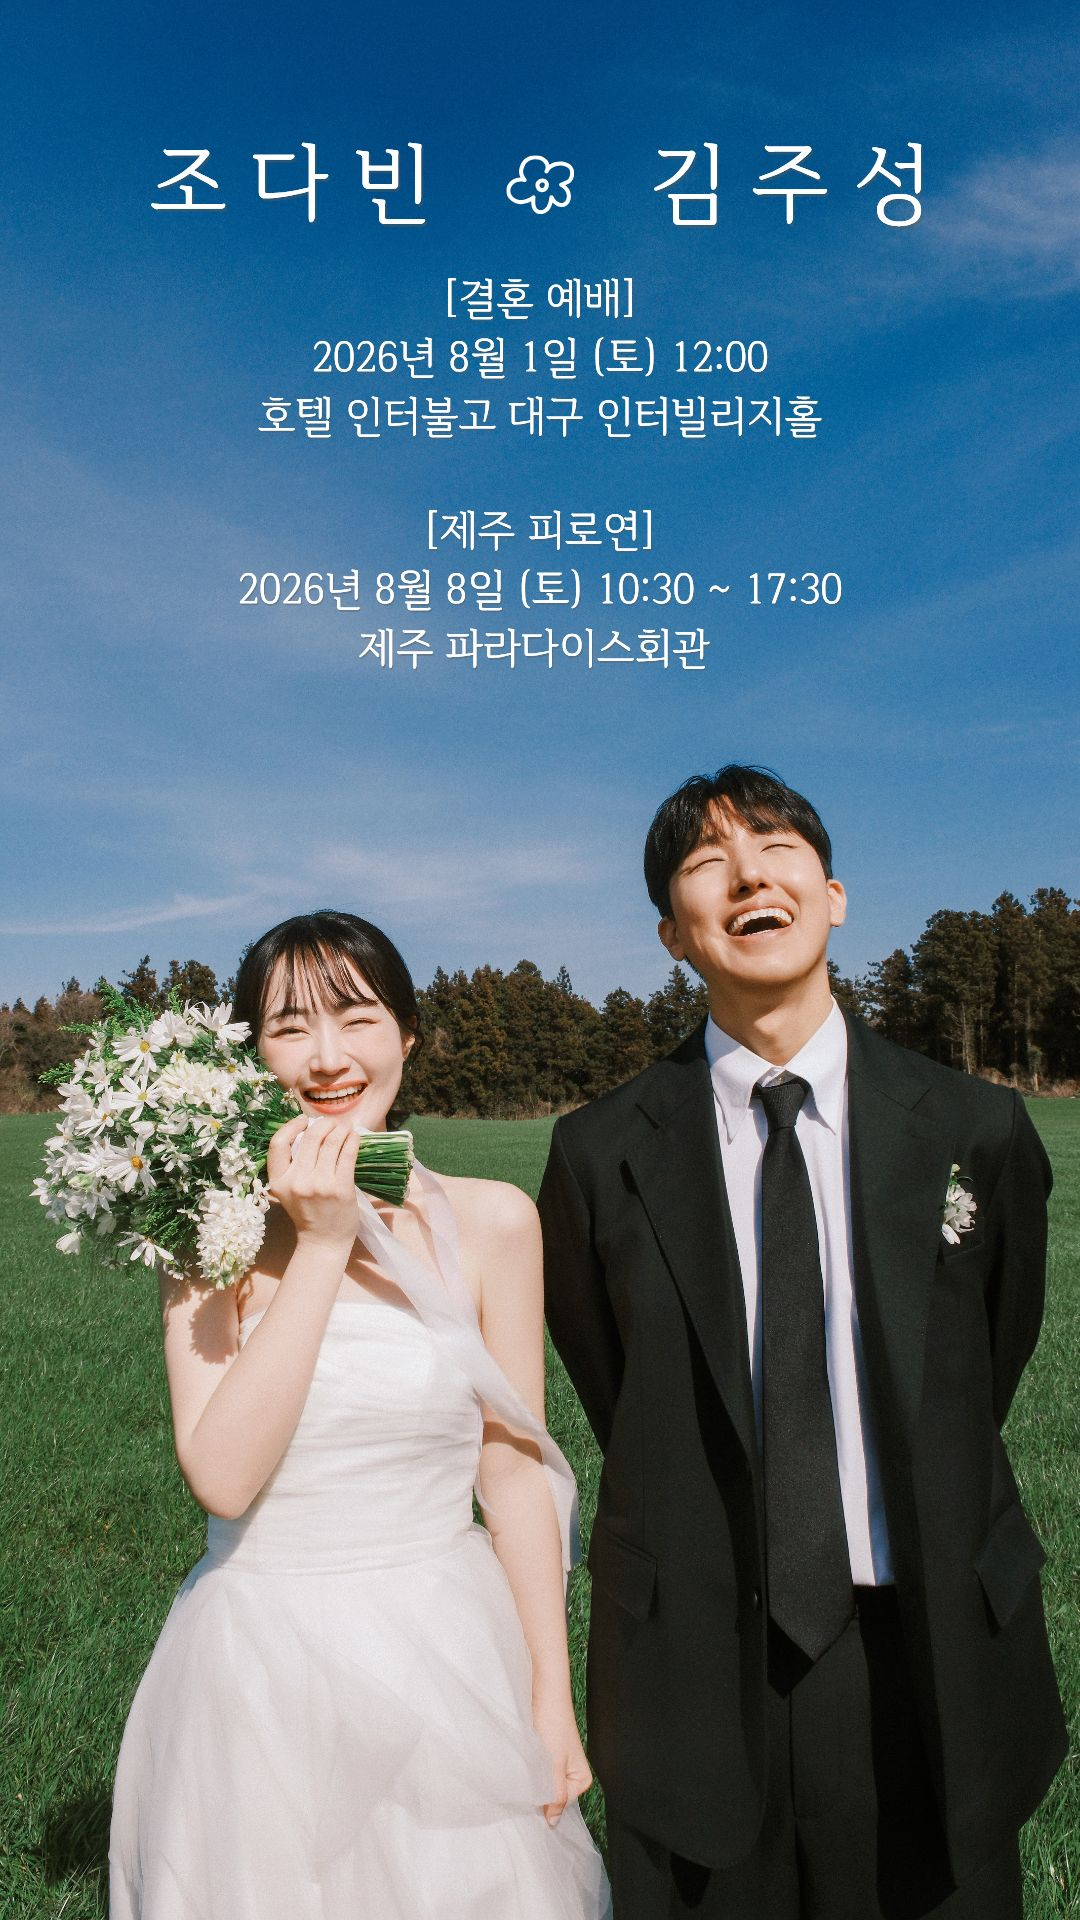
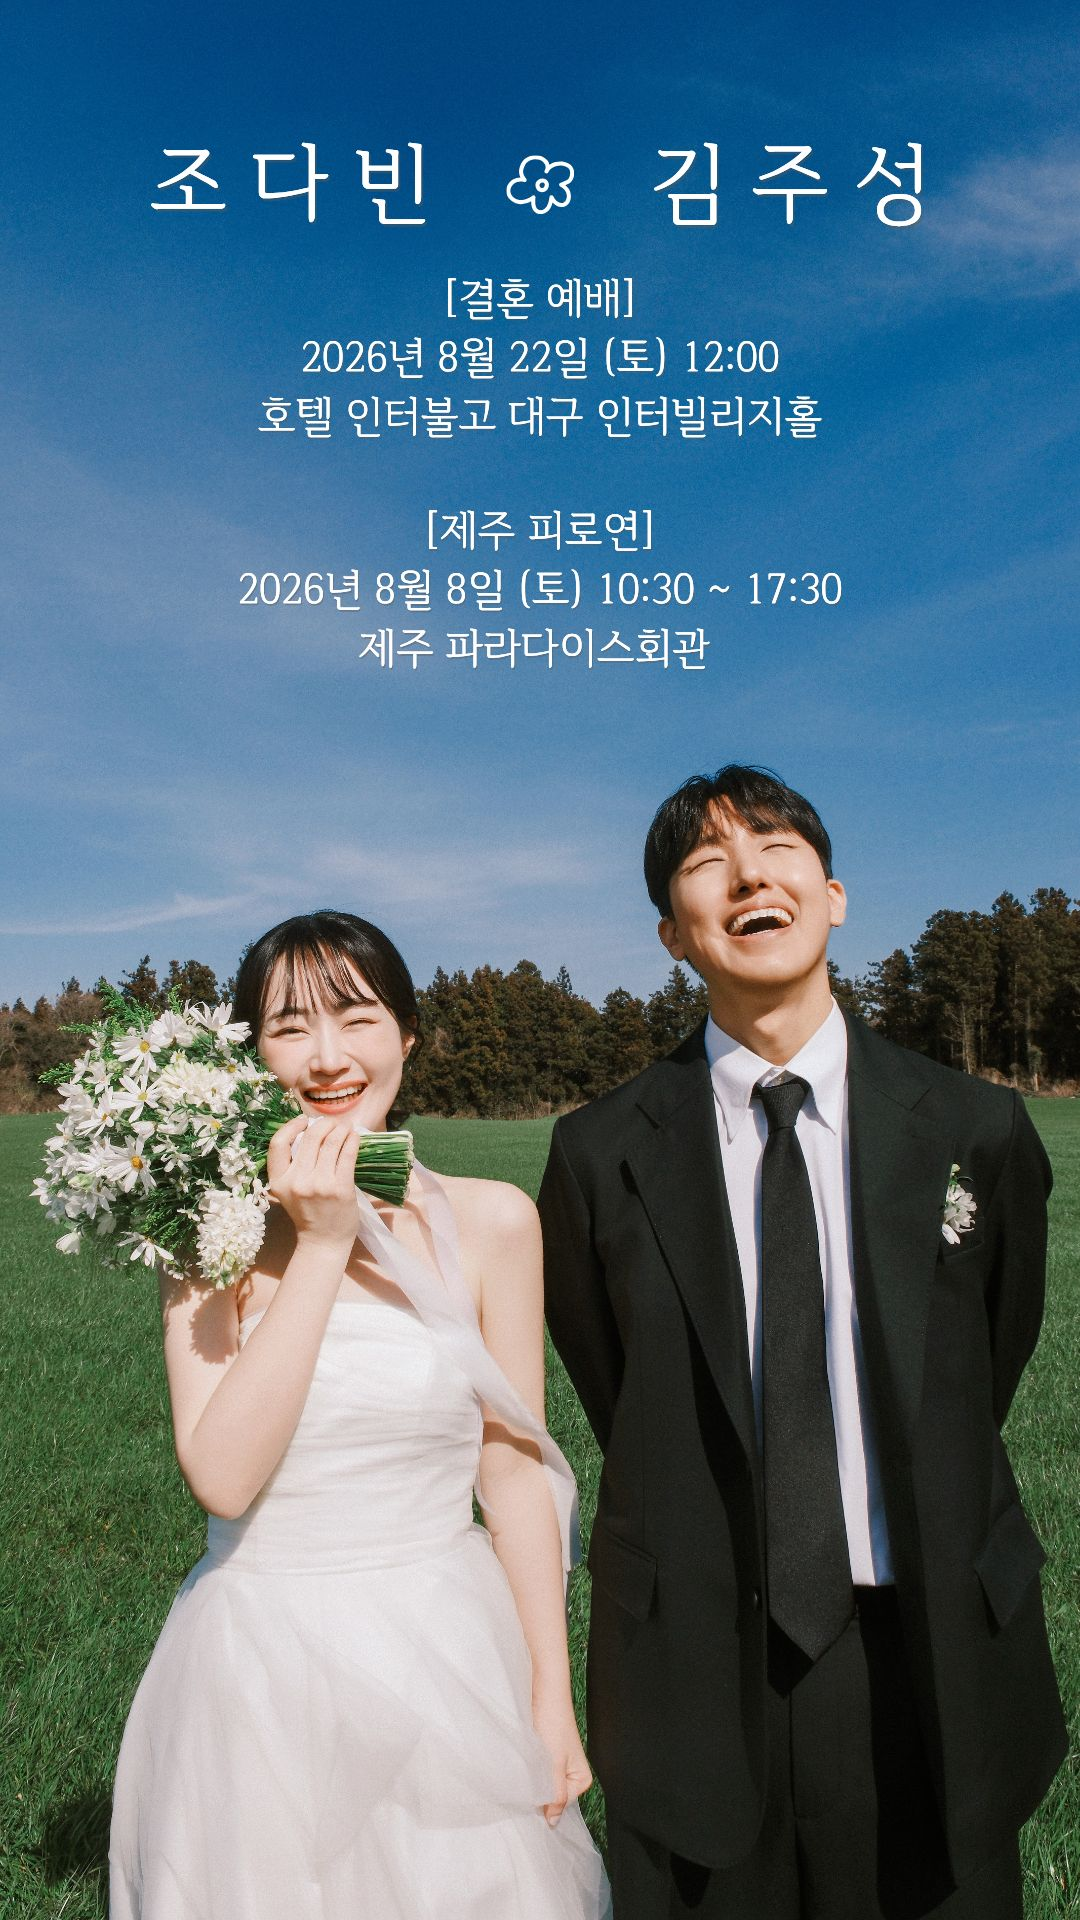
chore: update hero image and wedding invitation content
- Update main.jpg with refreshed hero image
- Update index.html with wedding invitation details and styling

Wedding site fully refreshed with updated content and imagery.

Changed region(s): [[0.275, 0.1562, 0.7333, 0.2188]]

diff --git a/index.html b/index.html
@@ -2750,16 +2750,6 @@
   <section class="schedule-section reveal">
     <div class="container">
       <h2>예식 일정</h2>
-      <!-- 결혼식 기본 정보 -->
-      <div class="wedding-info" style="border-top: none; padding-top: 0; text-align: center;">
-        <span style="font-size: 16px; color: var(--text-light); line-height: 0.8;">
-            2026년 8월 22일 토요일 낮 12시
-        </span>
-        <br>  
-        <span style="font-size: 16px; color: var(--text-light); line-height: 0.8;">
-            호텔 인터불고 대구 웨딩인터빌리지홀
-        </span>
-    </div>
       <!-- 피로연 기본 정보 -->
       <div class="wedding-info" style="border-top: none; padding-top: 0; text-align: center;">
         <span style="font-size: 16px; color: var(--text-light); line-height: 0.8;">
@@ -2768,6 +2758,16 @@
         <br>  
         <span style="font-size: 16px; color: var(--text-light); line-height: 0.8;">
             제주 파라다이스회관
+        </span>
+    </div>
+      <!-- 결혼식 기본 정보 -->
+    <div class="wedding-info" style="border-top: none; padding-top: 0; text-align: center;">
+        <span style="font-size: 12px; color: var(--text-light); line-height: 0.8;">
+            2026년 8월 22일 토요일 낮 12시
+        </span>
+        <br>  
+        <span style="font-size: 12px; color: var(--text-light); line-height: 0.8;">
+            호텔 인터불고 대구 웨딩인터빌리지홀
         </span>
     </div>
 
